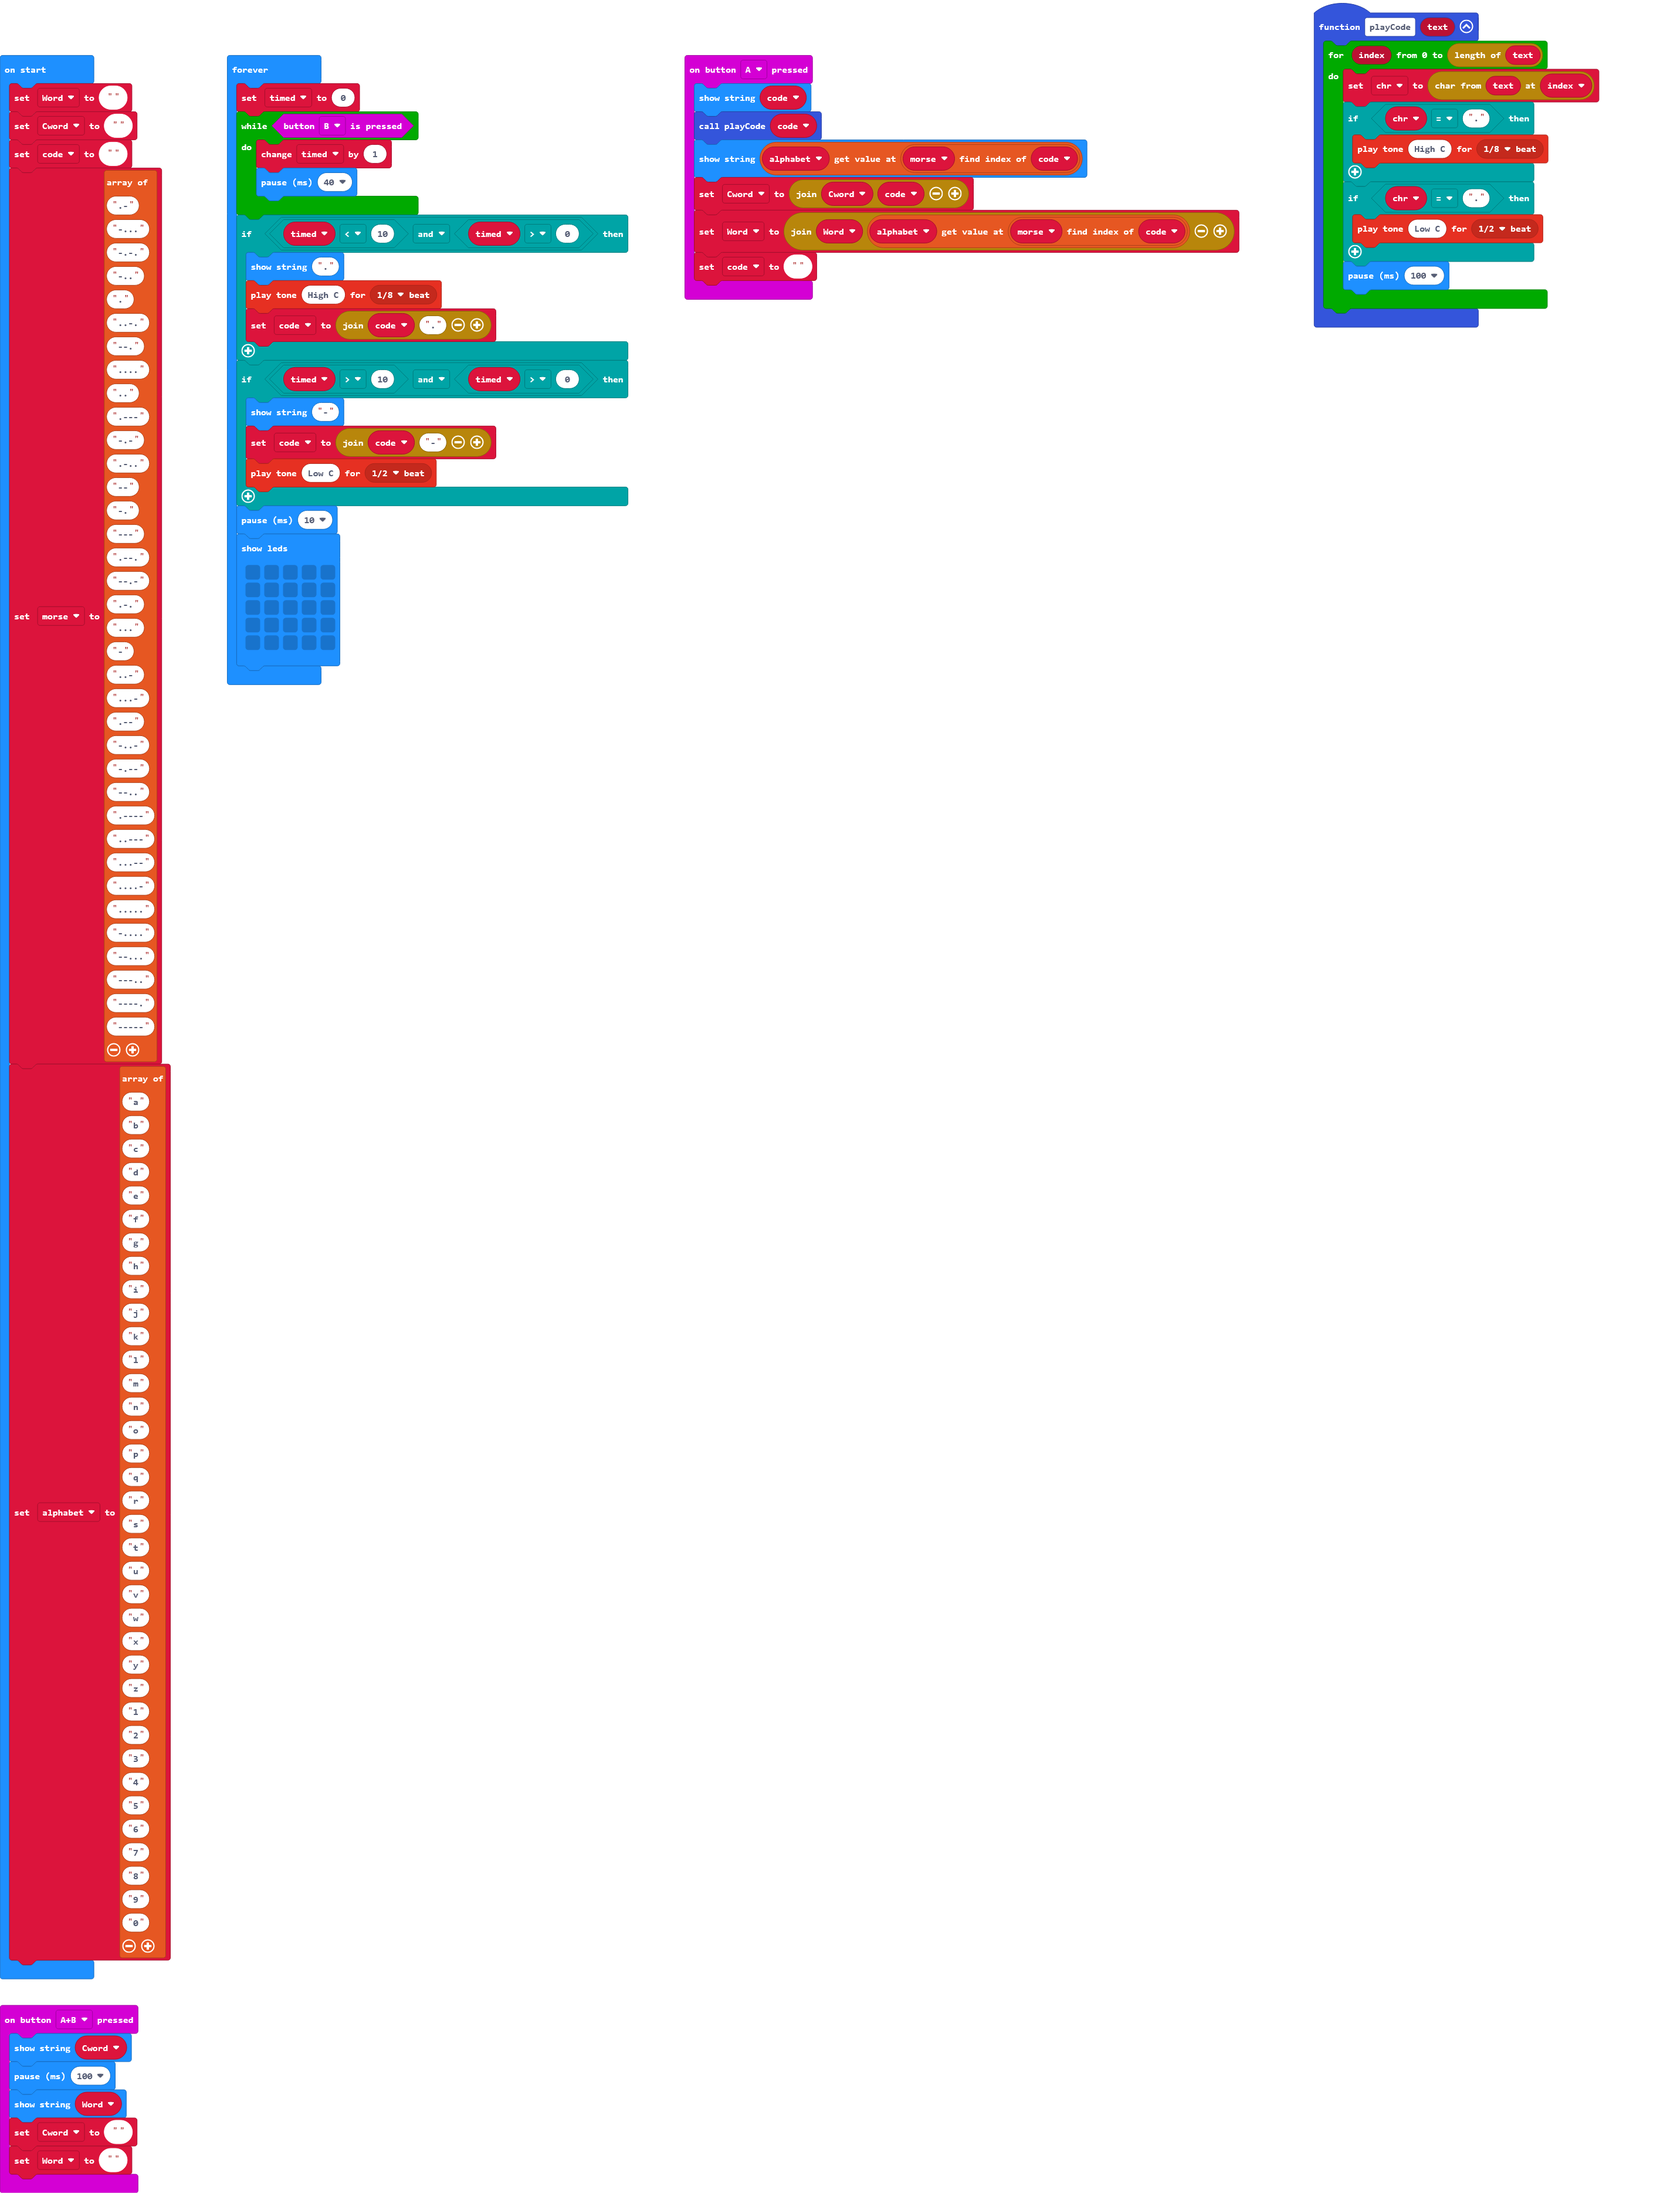
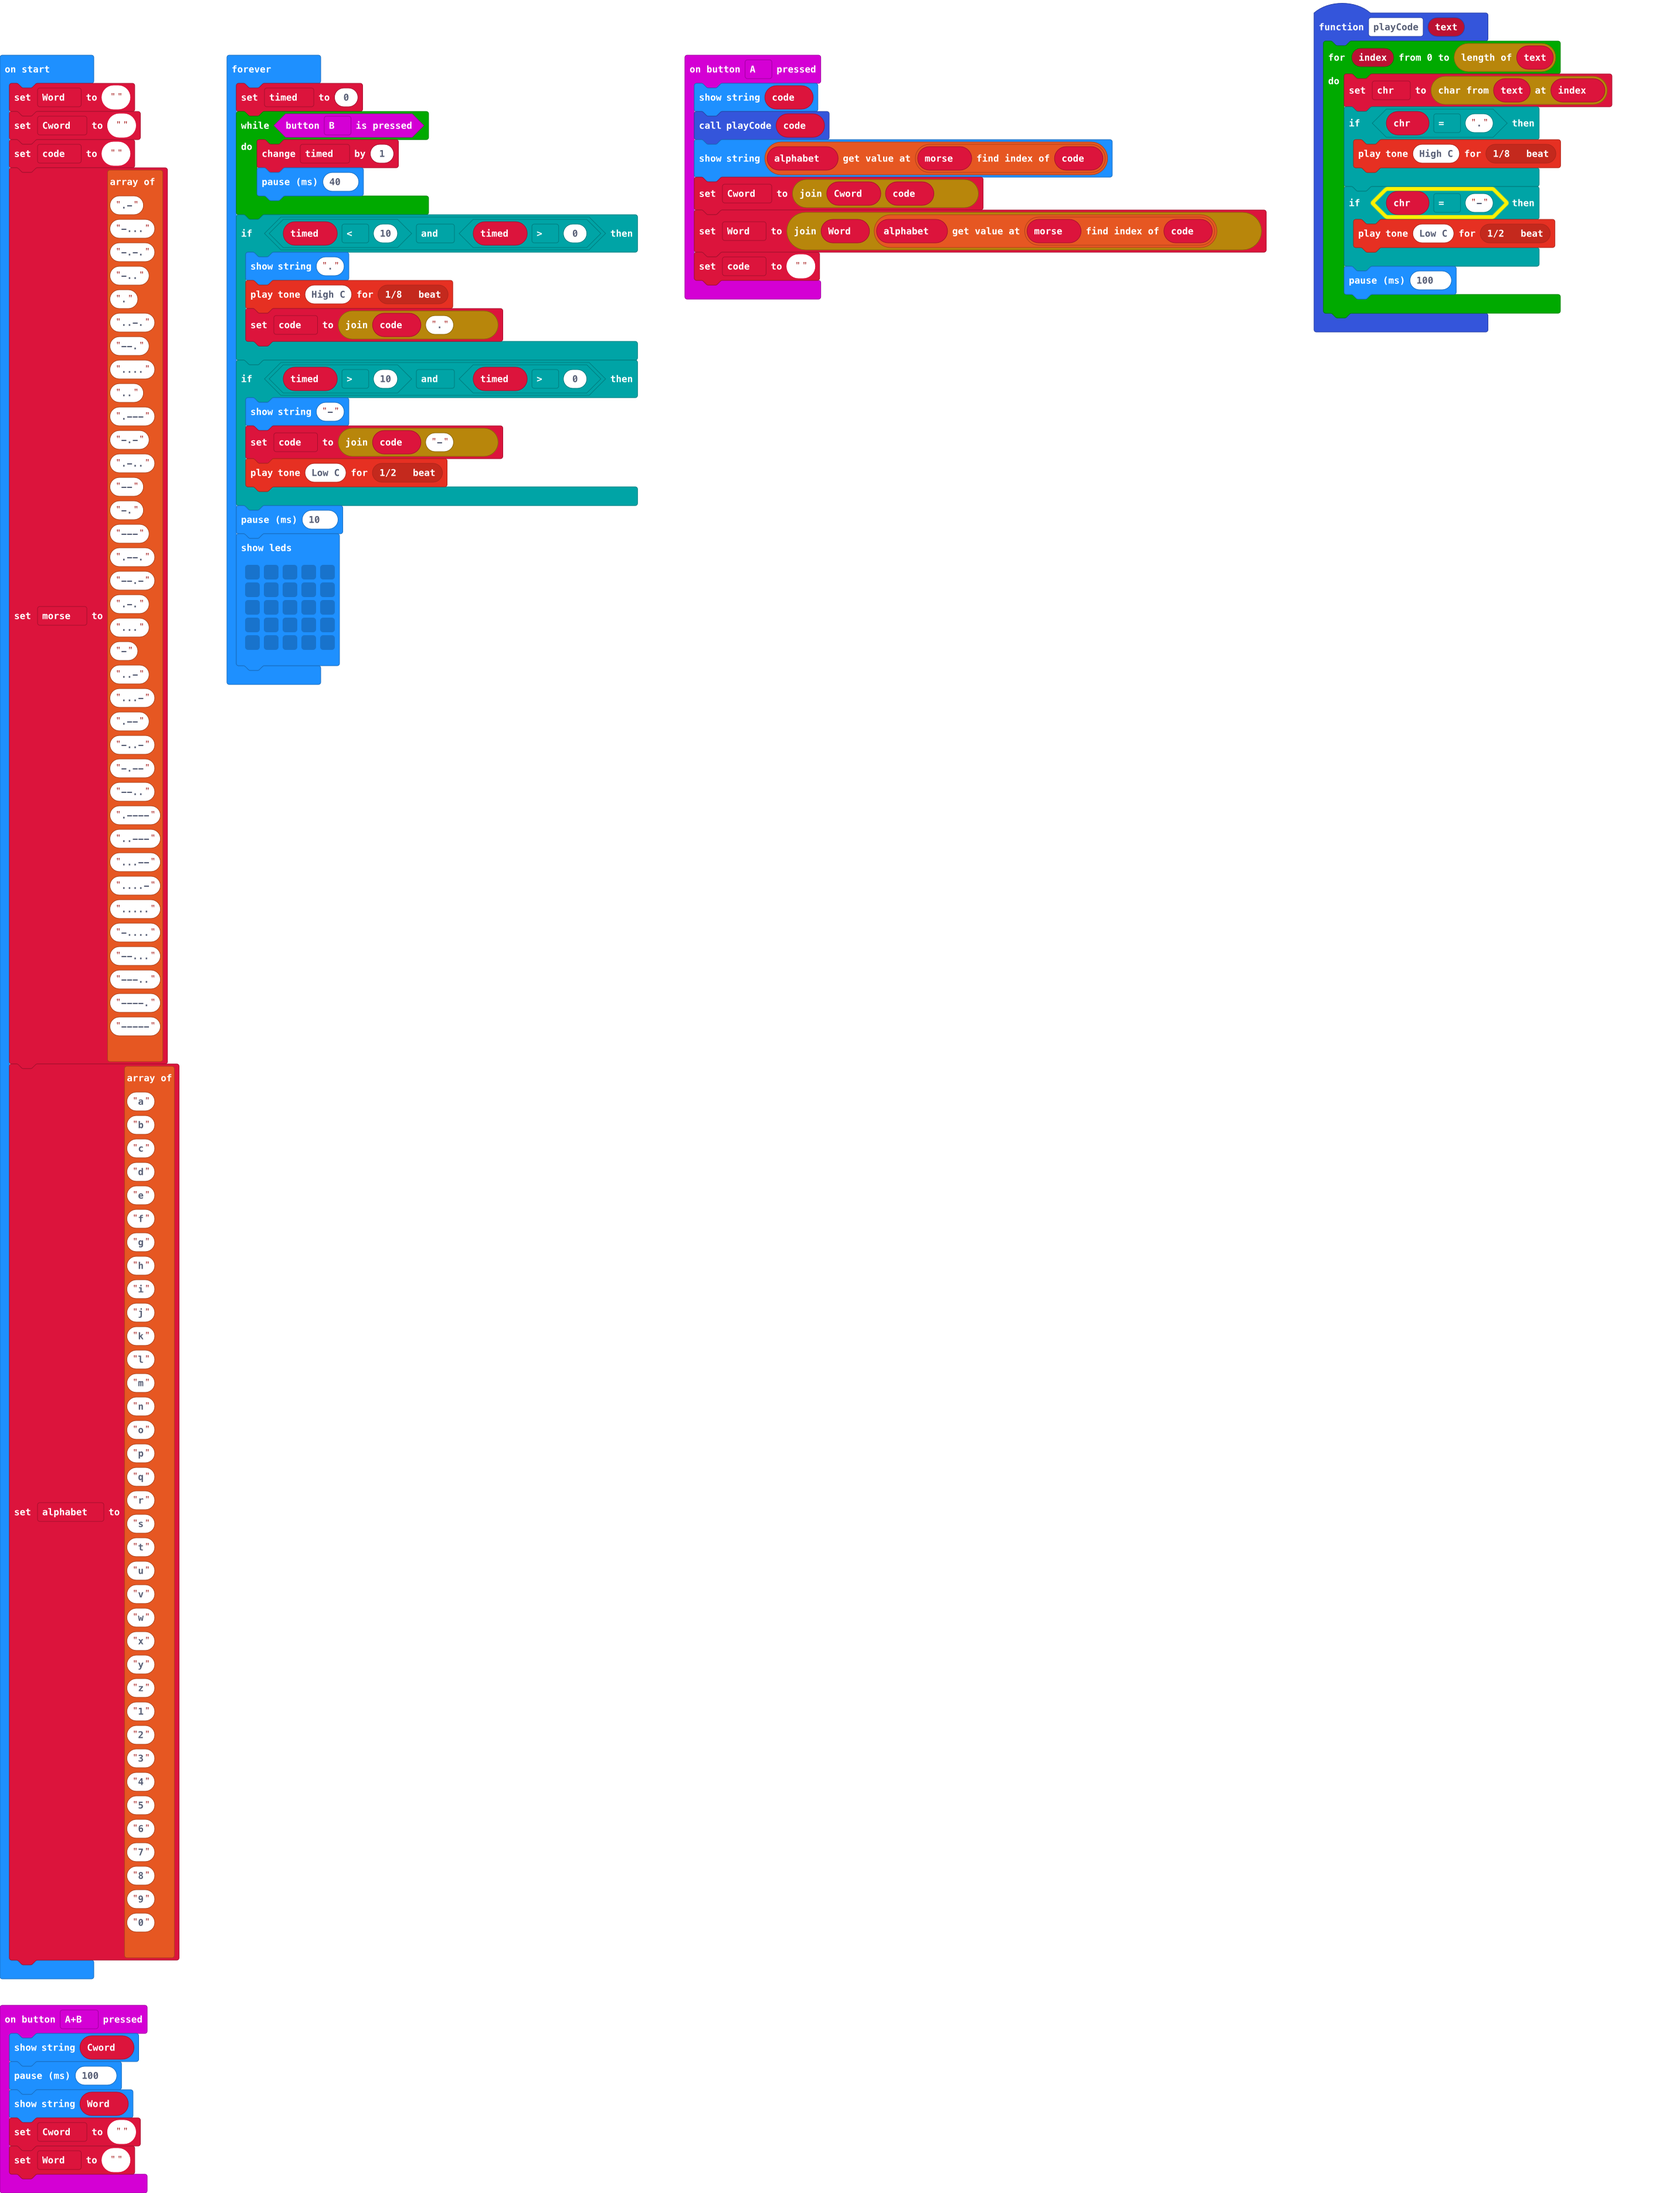
Update main.blocks, main.ts

Changed region(s): [[0.0, 0.031, 0.311, 1.0], [0.4042, 0.0, 0.964, 0.1551], [0.3731, 0.1551, 0.4042, 0.1861]]

diff --git a/main.ts b/main.ts
@@ -4,7 +4,7 @@ function playCode (text: string) {
         if (chr == ".") {
             music.playTone(523, music.beat(BeatFraction.Eighth))
         }
-        if (chr == ".") {
+        if (chr == "-") {
             music.playTone(131, music.beat(BeatFraction.Half))
         }
         basic.pause(100)
